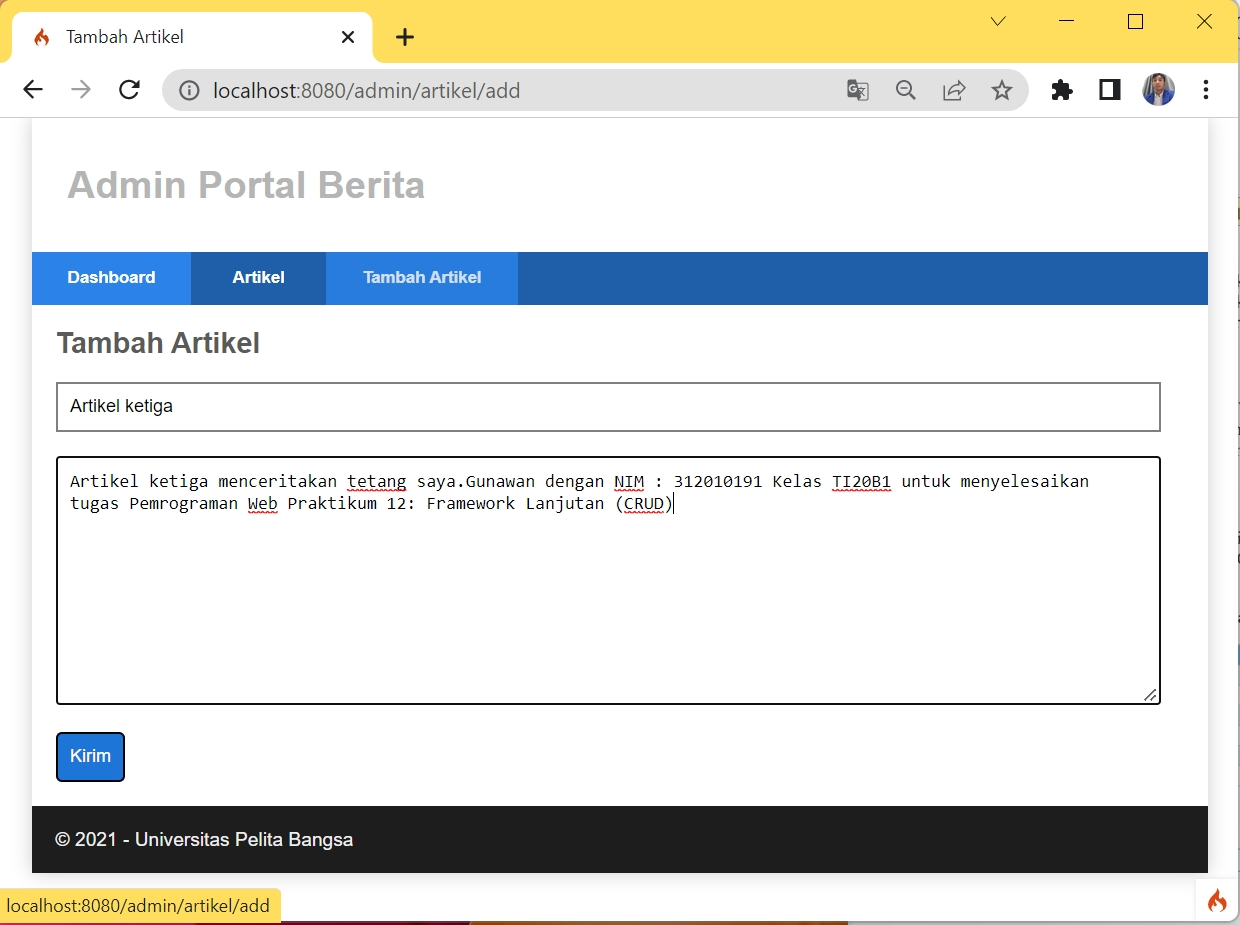
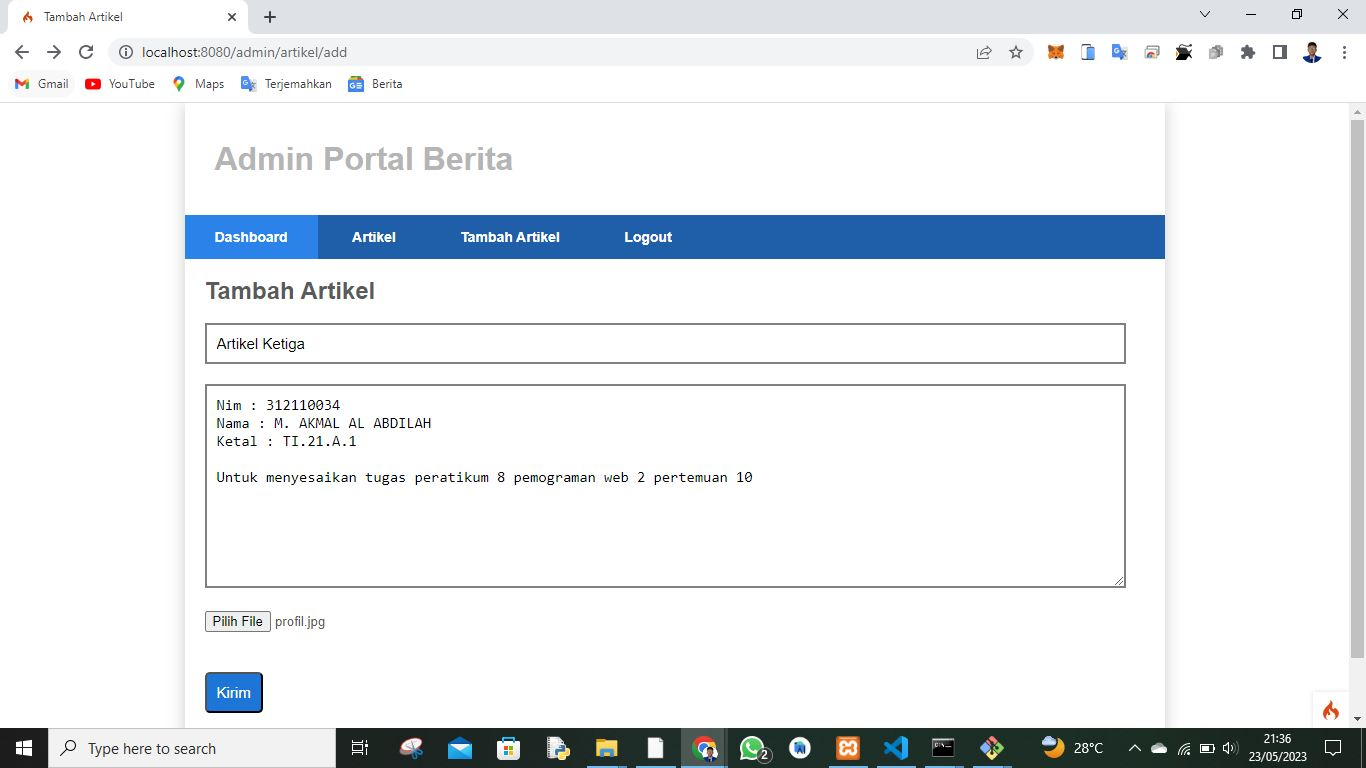
menambahkan .

diff --git a/README.md b/README.md
@@ -1,5 +1,21 @@
 
-# TUGAS PERTEMUAN 12
+# Pemograman Web2 Pertemuan 10
+
+## Profil
+| #               | Biodata                      |
+| --------------- | ---------------------------- |
+| **Nama**        | M. AKMAL AL ABDILAH          |
+| **NIM**         | 312110034                    |
+| **Kelas**       | TI.21.A.1                    |
+| **Mata Kuliah** | Pemrograman Web 2            |
+
+<p align="center">
+ <img src="https://user-images.githubusercontent.com/91085882/137566814-9c8c078c-1c3e-475c-b23d-7f4922f74beb.gif"/>
+</p>
+<p align="center">
+<a href="https://github.com/akmalabdilah"><img title="Author" src="https://img.shields.io/discord/102860784329052160?color=BLUE&label=M.%20AKMAL%20AL%20ABDILAH1&logo=GITHUB&logoColor=BLACK&style=plastic"></a>
+<p align="center">
+
 
 <hr>
 
@@ -11,7 +27,7 @@
 
 **Instruksi Praktikum**
 1. Persiapkan text editor misalnya **VSCode**.
-2. Buka kembali folder dengan nama **lab11_php_ci** pada docroot webserver **(htdocs)**
+2. Buka kembali folder dengan nama **lab7_php_ci** pada docroot webserver **(htdocs)**
 3. Ikuti langkah-langkah praktikum yang akan dijelaskan berikutnya.<br>
 
 **Langkah-langkah Praktikum
@@ -482,13 +498,7 @@ Akses menu admin dengan url http://localhost:8080/admin/artikel/edit/1
 
 Gambar 55.Edit_artikel
 
-![11_Lab11Web](Gambar/62.Gambar_Tampilan_edit_artikel-2.jpg)
 
-Gambar 56.Tampilan_edit_artikel
-
-![11_Lab11Web](Gambar/62.Gambar_Tampilan_edit_artikel-3.jpg)
-
-Gambar 57.Tampilan_Portal Berita_edit_artikel pertama
 
 **`Hapus Artikel`**
 
@@ -502,9 +512,11 @@ Gambar 58.Hapus_artikel
 
 Gambar 59.Tampilan_Hapus_artikel
 
-![11_Lab11Web](Gambar/63.Gambar_Tampilan_hapus-2.jpg)
 
-Gambar 60.Tampilan_Portal Berita_Hapus_artikel ketiga
+- Selesai
 
-<hr>
 
+<div>
+<h2 align="center">Thanks For Reading!!!</h2>
+<div align="center">
+<img src="https://user-images.githubusercontent.com/91085882/222731693-24383140-7623-4e7a-a528-6621380b7be8.gif">
